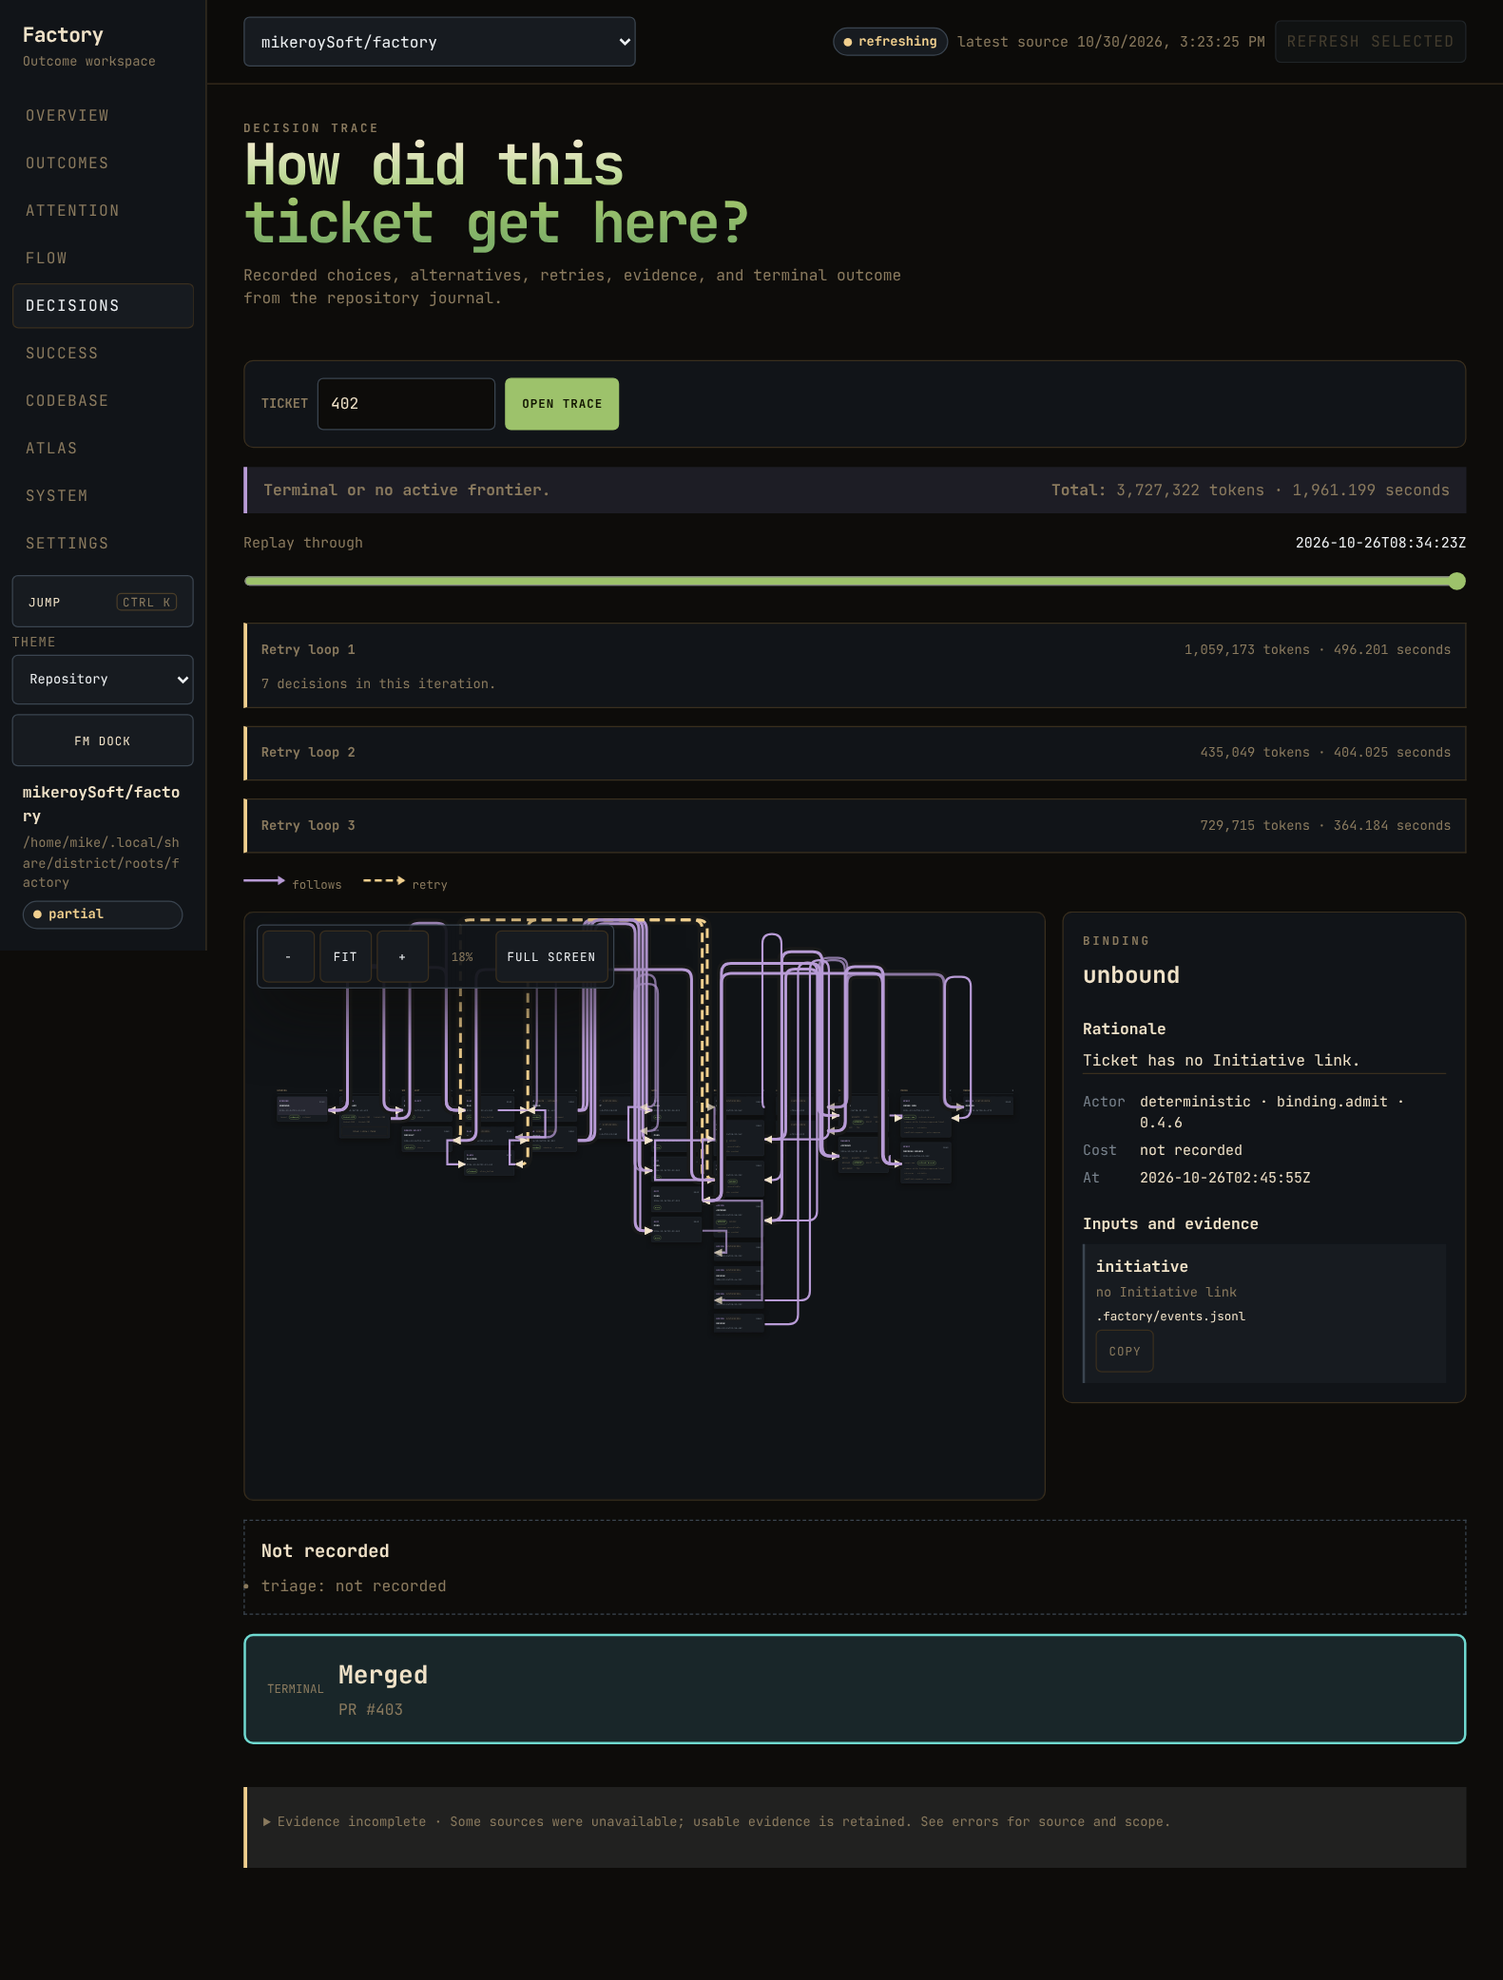
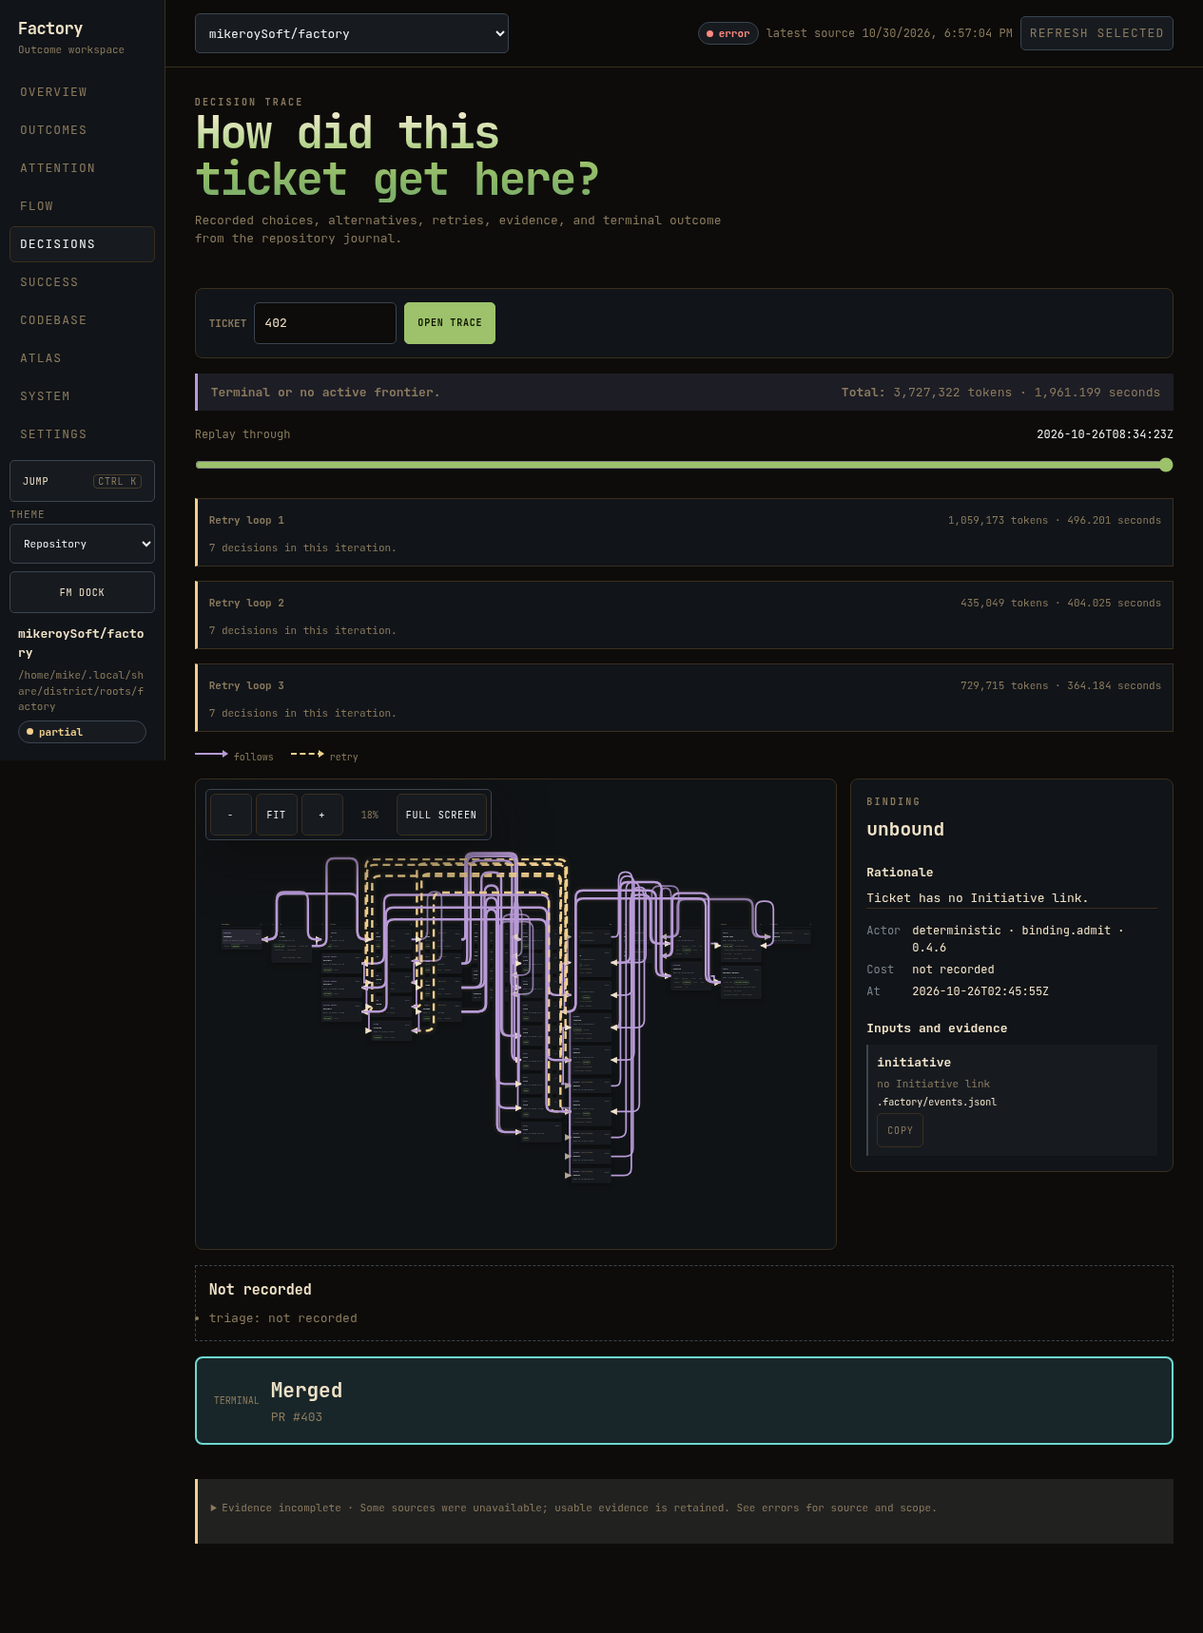
fix: allocate Decisions wires within the canvas
Compress signed track offsets and gutter distances into available viewport
space instead of hiding off-board lanes or clamping individual points.
Keep offscreen ports intact for SVG clipping and pin visible ports while
bounded tracks spring. Reserve a separate row for viewport controls.

Verify dense signed retry lanes, three retry loops and offscreen ports.
Focused trace suites: 23 passed; lint and JavaScript syntax checks passed.
Browser: real #402 at 1280x800, 45 nodes and 64 wires; geometry checked
after fit, zoom, pan, fullscreen, resize, drag and replay. Reduced motion
and full-chain tracing verified. Refresh the committed after screenshot.

diff --git a/factory/workspace-trace.js b/factory/workspace-trace.js
@@ -162,30 +162,46 @@
     top:(Number(rect?.top) || 0) * state.scale + state.y,
     bottom:(Number(rect?.bottom) || 0) * state.scale + state.y,
   });
-  function routeEdge({edge, source, target, fromColumn, toColumn, index = 0, lane = 0, track = null}) {
+  const boundedOffset = (center, offset, minimum, maximum) => {
+    // Compress lanes into the available space without merging them at a boundary.
+    const room = offset < 0 ? center - minimum : maximum - center;
+    return Number.isFinite(room) ? center + offset * room / (room + Math.abs(offset) || 1) : center + offset;
+  };
+  const gutterRoom = (x, direction, width) => x < 0 || x > width ? Infinity : direction < 0 ? x : width - x;
+  const gutterDistance = (distance, room) => Number.isFinite(room) ? distance * room / (distance + room) : distance;
+  function routeEdge({edge, source, target, fromColumn, toColumn, index = 0, lane = 0, track = null, bounds}) {
     const point = (x, y) => ({x,y});
     const y1 = (source.top + source.bottom) / 2, y2 = (target.top + target.bottom) / 2;
     const offset = Number(lane) || 0;
     const spread = 14 * offset / (1 + Math.abs(offset));
-    const top = (track == null ? 24 + index % 6 * 10 : Number(track)) + offset * 8;
+    const width = bounds?.width ?? Infinity, height = bounds?.height ?? Infinity;
+    const base = clamp(track == null ? 24 + index % 6 * 10 : Number(track), 2, height - 2);
+    const top = boundedOffset(base, offset * 8, 2, height - 2);
     let points;
     if (fromColumn === toColumn) {
-      const gutter = Math.max(source.right, target.right) + 18 + spread;
+      const left = Math.min(source.left, target.left), right = Math.max(source.right, target.right);
+      const direction = right === width && left > 0 ? -1 : 1;
+      const outer = direction < 0 ? left : right;
+      const distance = gutterDistance(34 + spread, gutterRoom(outer, direction, width));
+      const gutter = outer + direction * distance * (18 + spread) / (34 + spread);
+      const farGutter = outer + direction * distance;
       points = [
-        point(source.right, y1), point(gutter, y1), point(gutter, top),
-        point(gutter + 16, top), point(gutter + 16, y2), point(target.right, y2),
+        point(direction < 0 ? source.left : source.right, y1), point(gutter, y1), point(gutter, top),
+        point(farGutter, top), point(farGutter, y2), point(direction < 0 ? target.left : target.right, y2),
       ];
     } else if (toColumn < fromColumn) {
-      const bend = 16 + spread;
+      const sourceBend = gutterDistance(16 + spread, gutterRoom(source.left, -1, width));
+      const targetBend = gutterDistance(16 + spread, gutterRoom(target.right, 1, width));
       points = [
-        point(source.left, y1), point(source.left - bend, y1), point(source.left - bend, top),
-        point(target.right + bend, top), point(target.right + bend, y2), point(target.right, y2),
+        point(source.left, y1), point(source.left - sourceBend, y1), point(source.left - sourceBend, top),
+        point(target.right + targetBend, top), point(target.right + targetBend, y2), point(target.right, y2),
       ];
     } else if (toColumn - fromColumn > 1) {
-      const bend = 16 + spread;
+      const sourceBend = gutterDistance(16 + spread, gutterRoom(source.right, 1, width));
+      const targetBend = gutterDistance(16 + spread, gutterRoom(target.left, -1, width));
       points = [
-        point(source.right, y1), point(source.right + bend, y1), point(source.right + bend, top),
-        point(target.left - bend, top), point(target.left - bend, y2), point(target.left, y2),
+        point(source.right, y1), point(source.right + sourceBend, y1), point(source.right + sourceBend, top),
+        point(target.left - targetBend, top), point(target.left - targetBend, y2), point(target.left, y2),
       ];
     } else {
       const gap = target.left - source.right;
@@ -201,6 +217,34 @@
       ];
     }
     return {edge,points,markerEnd:'url(#trace-arrow)'};
+  }
+  function springPoints(start, target, elapsed, bounds) {
+    // Ports follow nodes immediately; only the allocated tracks and gutters spring.
+    const spring = elapsed === 1 ? 1 : 1 - Math.exp(-7 * elapsed) * Math.cos(12 * elapsed);
+    const interpolate = (from, to, minimum, maximum) => {
+      from = clamp(from, minimum, maximum);
+      return spring <= 1 ? from + (to - from) * spring
+        : boundedOffset(to, (to - from) * (spring - 1), minimum, maximum);
+    };
+    const source = target[0], end = target.at(-1);
+    if (target[2].y !== target[3].y) {
+      const gutter = interpolate(start[1].x, target[1].x,
+        Math.min(source.x, end.x), Math.max(source.x, end.x));
+      return [source,{x:gutter,y:source.y},{x:gutter,y:source.y},
+        {x:gutter,y:end.y},{x:gutter,y:end.y},end];
+    }
+    const gutter = (port, fromPort, from, to) => {
+      const direction = Math.sign(to.x - port.x);
+      const room = gutterRoom(port.x, direction, bounds.width);
+      const distance = interpolate((from.x - fromPort.x) * direction,
+        Math.abs(to.x - port.x), Math.min(.01, room / 2), room);
+      return port.x + direction * distance;
+    };
+    const fromX = gutter(source, start[0], start[1], target[1]);
+    const toX = gutter(end, start.at(-1), start[4], target[4]);
+    const top = interpolate(start[2].y, target[2].y, 2, bounds.height - 2);
+    return [source,{x:fromX,y:source.y},{x:fromX,y:top},
+      {x:toX,y:top},{x:toX,y:end.y},end];
   }
   async function toggleFullscreen(board, targetDocument = typeof document === 'undefined' ? null : document) {
     if (!board || !targetDocument) return;
@@ -290,8 +334,10 @@
           <output data-trace-zoom aria-live="polite">100%</output>
           <button type="button" data-trace-fullscreen aria-label="Enter fullscreen" aria-keyshortcuts="F">Full screen</button>
         </div>
-        <svg class="trace-lines" data-trace-lines aria-hidden="true"></svg>
-        <div class="trace-scene" data-trace-scene><div class="trace-stages" role="list" aria-label="Decision nodes in pipeline order">${groups}</div></div>
+        <div class="trace-canvas" data-trace-canvas>
+          <svg class="trace-lines" data-trace-lines aria-hidden="true"></svg>
+          <div class="trace-scene" data-trace-scene><div class="trace-stages" role="list" aria-label="Decision nodes in pipeline order">${groups}</div></div>
+        </div>
         <ol class="sr-only" aria-label="Recorded relationships">${relations}</ol>
       </div><aside class="trace-detail" data-trace-detail aria-live="polite"><p class="muted">Select a decision node for its evidence.</p></aside></div>
       ${coverage.length ? `<section class="trace-coverage"><h2>Not recorded</h2><ul>${coverage.map(stage => `<li>${esc(stageLabel(stage))}: not recorded</li>`).join('')}</ul></section>` : ''}
@@ -350,6 +396,7 @@
     const buttons = [...host.querySelectorAll('[data-trace-select]')];
     const panel = host.querySelector('[data-trace-detail]');
     const board = host.querySelector('[data-trace-board]');
+    const canvas = host.querySelector('[data-trace-canvas]');
     const scene = host.querySelector('[data-trace-scene]');
     const svg = host.querySelector('[data-trace-lines]');
     const zoomOutput = host.querySelector('[data-trace-zoom]');
@@ -421,10 +468,10 @@
     };
     const routes = () => {
       if (!board || !svg || !host.isConnected) return [];
-      const width = board.clientWidth, height = board.clientHeight;
+      const width = canvas.clientWidth, height = canvas.clientHeight;
       svg.setAttribute('viewBox', `0 0 ${width} ${height}`);
       svg.setAttribute('width', width); svg.setAttribute('height', height);
-      const boardRect = board.getBoundingClientRect();
+      const boardRect = canvas.getBoundingClientRect();
       const byId = new Map([...host.querySelectorAll('[data-trace-node]')].map(item => [item.dataset.traceNode, item]));
       const stageIndex = new Map([...host.querySelectorAll('[data-stage]')].map((item, index) => [item.dataset.stage, index]));
       const columns = new Map([...byId].map(([id, item]) => [id, stageIndex.get(item.closest('[data-stage]').dataset.stage)]));
@@ -512,7 +559,11 @@
           wire.current = route.points.map(point => ({...point}));
           updateWire(wire, wire.current);
         } else {
-          moving.push({wire,start:wire.current.map(point => ({...point})),target:route.points});
+          const start = wire.current.map(point => ({...point}));
+          moving.push({wire,start,target:route.points});
+          wire.current = springPoints(start, route.points, 0,
+            {width:canvas.clientWidth,height:canvas.clientHeight});
+          updateWire(wire, wire.current);
         }
       }
       applyHighlight();
@@ -521,12 +572,9 @@
       const started = performance.now();
       const tick = now => {
         const elapsed = Math.min(1, (now - started) / 500);
-        const spring = elapsed === 1 ? 1 : 1 - Math.exp(-7 * elapsed) * Math.cos(12 * elapsed);
         for (const move of moving) {
-          move.wire.current = move.target.map((point, index) => ({
-            x:move.start[index].x + (point.x - move.start[index].x) * spring,
-            y:move.start[index].y + (point.y - move.start[index].y) * spring,
-          }));
+          move.wire.current = springPoints(move.start, move.target, elapsed,
+            {width:canvas.clientWidth,height:canvas.clientHeight});
           updateWire(move.wire, move.wire.current);
         }
         motionFrame = elapsed < 1 ? requestAnimationFrame(tick) : null;
@@ -553,11 +601,11 @@
       if (!board || !scene) return;
       fitted = true;
       applyViewport(fitViewport(
-        {width:board.clientWidth,height:board.clientHeight},
+        {width:canvas.clientWidth,height:canvas.clientHeight},
         {width:scene.scrollWidth,height:scene.scrollHeight},
       ));
     };
-    const zoomGraph = (factor, origin = {x:board?.clientWidth / 2,y:board?.clientHeight / 2}) => {
+    const zoomGraph = (factor, origin = {x:canvas?.clientWidth / 2,y:canvas?.clientHeight / 2}) => {
       fitted = false;
       applyViewport(zoomViewport(viewport, factor, origin));
     };
@@ -629,7 +677,7 @@
     host.querySelector('[data-trace-fullscreen]')?.addEventListener('click', () => { void toggleFullscreen(board); });
     board?.addEventListener('wheel', event => {
       if (event.target.closest('[data-trace-viewport-controls]')) return;
-      const rect = board.getBoundingClientRect();
+      const rect = canvas.getBoundingClientRect();
       zoomGraph(Math.exp(-event.deltaY * .0015), {x:event.clientX - rect.left,y:event.clientY - rect.top});
       event.preventDefault();
     }, {passive:false});
@@ -755,6 +803,6 @@
 
   window.WorkspaceTrace = Object.freeze({
     arrowOrient,bundleEdges,bundleSpacing,crossingCount,edgeType,fitViewport,markup,mount,orderNodes,
-    panViewport,render,routeEdge,safeUrl,toggleFullscreen,transformRect,viewportShortcut,zoomViewport,
+    panViewport,render,routeEdge,safeUrl,springPoints,toggleFullscreen,transformRect,viewportShortcut,zoomViewport,
   });
 })();

diff --git a/factory/workspace.css b/factory/workspace.css
@@ -419,13 +419,14 @@ body[data-motion="on"]:not([data-hidden="true"]) .signal[data-status="refreshing
 .trace-legend-line.relation-blocked-by, .trace-legend-line.relation-overrides { border-top-style: dotted; }
 .trace-legend-line.relation-unblocked-by { border-top-style: double; }
 .trace-layout { display: grid; grid-template-columns: minmax(0,1fr) minmax(280px,340px); gap: 14px; align-items: start; }
-.trace-board { position: relative; height: clamp(360px,62vh,720px); overflow: hidden; border: 1px solid var(--line); border-radius: 8px; background: color-mix(in srgb,var(--surface) 84%,var(--bg)); cursor: grab; touch-action: none; }
+.trace-board { position: relative; display: grid; grid-template-rows: auto minmax(0,1fr); height: clamp(360px,62vh,720px); overflow: hidden; border: 1px solid var(--line); border-radius: 8px; background: color-mix(in srgb,var(--surface) 84%,var(--bg)); cursor: grab; touch-action: none; }
 .trace-board.is-panning { cursor: grabbing; }
 .trace-board:fullscreen { width: 100vw; height: 100vh; border: 0; border-radius: 0; }
-.trace-viewport-controls { position: absolute; z-index: 6; top: 10px; left: 10px; display: flex; align-items: center; gap: 4px; padding: 4px; border: 1px solid var(--line-strong); border-radius: var(--radius); background: color-mix(in srgb,var(--surface) 94%,transparent); box-shadow: var(--shadow); }
+.trace-viewport-controls { position: relative; z-index: 6; justify-self: start; margin: 10px; display: flex; align-items: center; gap: 4px; padding: 4px; border: 1px solid var(--line-strong); border-radius: var(--radius); background: color-mix(in srgb,var(--surface) 94%,transparent); box-shadow: var(--shadow); }
 .trace-viewport-controls button { min-width: 44px; min-height: 44px; padding: 6px 9px; color: var(--text); border: 1px solid var(--line); border-radius: var(--radius); background: var(--surface-2); }
 .trace-viewport-controls button:hover { border-color: var(--accent); }
 .trace-viewport-controls output { min-width: 48px; color: var(--muted); text-align: center; font: 10px var(--mono); }
+.trace-canvas { position: relative; min-width: 0; min-height: 0; overflow: hidden; }
 .trace-scene { position: absolute; z-index: 2; top: 0; left: 0; width: max-content; transform-origin: 0 0; }
 .trace-lines { position: absolute; z-index: 3; inset: 0; width: 100%; height: 100%; overflow: hidden; pointer-events: none; }
 .trace-edge-group { color: var(--trace-color); transition: opacity 120ms ease; }

diff --git a/tests/test_workspace_trace_viewport.py b/tests/test_workspace_trace_viewport.py
@@ -5,6 +5,7 @@ import json
 import shutil
 import subprocess
 import unittest
+from itertools import pairwise
 from pathlib import Path
 
 ASSET = Path(__file__).resolve().parents[1] / "factory" / "workspace-trace.js"
@@ -317,8 +318,8 @@ Promise.resolve({expression}).then(result => process.stdout.write(JSON.stringify
 
     def assert_shared_segments_at_most(self, routes, points, limit) -> None:
         for other in routes:
-            for start, end in zip(points, points[1:]):
-                for other_start, other_end in zip(other["points"], other["points"][1:]):
+            for start, end in pairwise(points):
+                for other_start, other_end in pairwise(other["points"]):
                     for fixed, varying in (("x", "y"), ("y", "x")):
                         if start[fixed] == end[fixed] == other_start[fixed] == other_end[fixed]:
                             overlap = min(
@@ -357,3 +358,54 @@ Promise.resolve({expression}).then(result => process.stdout.write(JSON.stringify
                 self.assertLessEqual(point["x"], 900)
                 self.assertGreaterEqual(point["y"], 0)
                 self.assertLessEqual(point["y"], 500)
+
+    def test_three_retry_loops_and_lane_minus_eleven_keep_top_tracks_visible(self) -> None:
+        routes = self.evaluate(
+            "(() => { const api=window.WorkspaceTrace;"
+            "const groups=[Array(3).fill(0),Array(3).fill(0)];"
+            "const spacing=api.bundleSpacing(groups); let track=8+spacing.track/2;"
+            "return [...groups.flatMap(group=>group.map((_,i)=>({"
+            "lane:i-1+(i-1)*spacing.stripe/4,track:track+=spacing.track"
+            "}))),{lane:-2,track:9.2},{lane:-11,track:9.2}]"
+            ".map(({lane,track},index)=>api.routeEdge({"
+            "edge:{from:'review',to:'claim',relation:'retries'},index,lane,track,"
+            "source:{left:700,right:800,top:80,bottom:160},"
+            "target:{left:50,right:150,top:220,bottom:300},"
+            "fromColumn:7,toColumn:3,bounds:{width:900,height:500}})); })()",
+            {},
+        )
+
+        for route in routes:
+            points = route["points"]
+            self.assertEqual(points[0], {"x": 700, "y": 120})
+            self.assertEqual(points[-1], {"x": 150, "y": 260})
+            self.assertGreater(points[-2]["x"], points[-1]["x"])
+            for point in points:
+                self.assertGreaterEqual(point["x"], 0)
+                self.assertLessEqual(point["x"], 900)
+                self.assertGreaterEqual(point["y"], 0)
+                self.assertLessEqual(point["y"], 500)
+
+    def test_panned_offscreen_ports_are_not_clamped_for_tracked_routes(self) -> None:
+        scenarios = self.evaluate(
+            "value.map(columns=>window.WorkspaceTrace.routeEdge({"
+            "edge:{from:'source',to:'target',relation:'retries'},"
+            "source:{left:900,right:1000,top:80,bottom:160},"
+            "target:{left:1100,right:1200,top:220,bottom:300},"
+            "fromColumn:columns[0],toColumn:columns[1],lane:-11,track:9.2,"
+            "bounds:{width:800,height:500}}))",
+            [[3, 0], [0, 3], [3, 3]],
+        )
+
+        for kind, route in zip(("backward", "long-forward", "same-stage"), scenarios):
+            with self.subTest(kind=kind):
+                points = route["points"]
+                self.assertTrue(all(point["x"] > 800 for point in points))
+                self.assertEqual(points[0]["y"], 120)
+                self.assertEqual(points[-1]["y"], 260)
+                if kind == "long-forward":
+                    self.assertEqual(points[-1]["x"], 1100)
+                    self.assertLess(points[-2]["x"], points[-1]["x"])
+                else:
+                    self.assertEqual(points[-1]["x"], 1200)
+                    self.assertGreater(points[-2]["x"], points[-1]["x"])

diff --git a/README.md b/README.md
@@ -408,8 +408,10 @@ It renders the same graph unchanged as a stage-ordered breadboard with labeled
 relationships, retry-loop costs, a timeline replay control, fit/zoom/pan and
 fullscreen viewport controls, evidence details, coverage gaps, frontier state,
 cross-ticket links, and terminal outcome. Mouse wheel and keyboard controls
-share the same viewport state; wires remain clipped and re-routed to visible
-nodes after viewport, replay, resize, and node-drag changes. The view is
+share the same viewport state. Controls occupy a separate row above the canvas;
+retry tracks and parallel gutters stay inside its bounds, including during spring
+motion. Wires retain their node attachments after viewport, replay, resize, and
+node-drag changes; genuinely offscreen endpoints use SVG clipping. The view is
 read-only; legacy synthesized rows remain visibly dashed.
 
 Successful non-dry-run `triage`, `dispatch`, and `watch` invocations atomically
